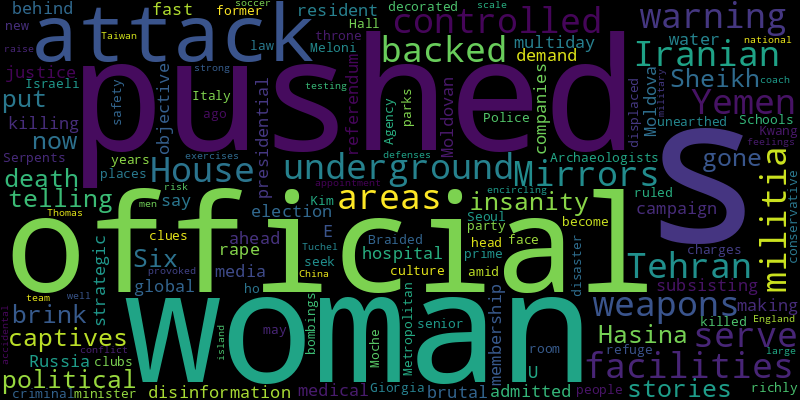
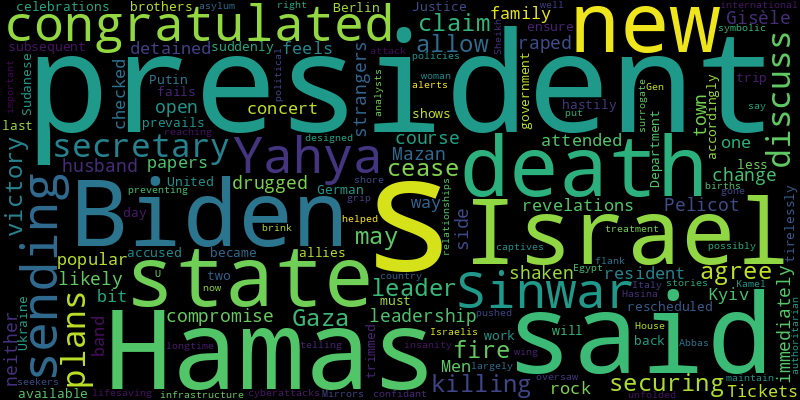
chore(bot): 🟩 auto commit

diff --git a/README.md b/README.md
@@ -2,41 +2,41 @@
 Auto RSS New York Times and Generate Word Cloud
 
 ## New York Times Global News
-* The attack on underground weapons facilities in areas of Yemen controlled by the Iranian-backed militia could also serve as a warning to Tehran.
+* President Biden congratulated Israel after the death of Yahya Sinwar and said he was sending the secretary of state to discuss plans for securing Gaza.
+* The killing of Hamas’s leader may allow Israel to claim victory and agree to a cease-fire, and new Hamas leadership could be more open to compromise. But neither side is likely to immediately change course.
+* The town of Mazan, where Gisèle Pelicot was drugged and raped by her husband and strangers, has been shaken by the revelations. “It feels a bit like it’s in our family,” one resident said.
+* Men who attended the Kyiv concert of a popular rock band had their papers checked on the way out. Some were detained. Tickets to subsequent shows suddenly became available.
+* The United States and its allies must work tirelessly, President Biden said, to “ensure that Ukraine prevails and Putin fails.”
+* The president’s hastily rescheduled trip to Berlin will last less than a day. The German government has trimmed back its celebrations accordingly.
+* The Justice Department has accused two Sudanese brothers of cyberattacks on U.S. infrastructure as well as preventing possibly lifesaving alerts from reaching Israelis as the Hamas attack unfolded.
+* New policies on surrogate births and the treatment of asylum seekers, while largely symbolic, are designed to shore up her right-wing flank in Italy, analysts say.
+* Gen. Abbas Kamel, a longtime confidant of Egypt’s president, oversaw the country’s most important international relationships and helped maintain the president’s authoritarian grip.
 * In the House of Mirrors, political captives were pushed to the brink of insanity and death. Some are telling their stories now that the woman who put them there, Sheikh Hasina, is gone.
-* Six were subsisting only on water and were admitted into the hospital after a multiday fast to demand justice for the brutal rape and killing of a medical resident.
-* Russia is behind a disinformation campaign in Moldova ahead of a presidential election and a referendum making E.U. membership a “strategic objective,” Moldovan officials and global media companies say.
-* Archaeologists have unearthed a richly decorated throne room and a “Hall of the Braided Serpents” from the Moche culture, with clues that a woman may have ruled there more than 1,300 years ago.
-* Kim Kwang-ho, the former head of the Seoul Metropolitan Police Agency, was the most senior official to face criminal charges over the 2022 disaster that killed 159 people.
-* The new law was pushed by the party of Giorgia Meloni, Italy’s conservative prime minister.
-* Schools, clubs and parks have become places of refuge as the displaced seek safety amid Israeli bombings.
-* The appointment of Thomas Tuchel to coach the England men’s national soccer team has provoked, well, some strong feelings.
-* China’s large-scale military exercises are encircling Taiwan and testing the island’s defenses. They also raise the risk of conflict, accidental or otherwise.
 
 ![Global](./global.png)
 ## New York Times United States News
-* The settlement is the highest single payout by an archdiocese, experts said, and brings Los Angeles’s cumulative payout in sex abuse lawsuits to more than $1.5 billion.
-* The storm made landfall Wednesday evening, devastating an area still recovering from Hurricane Helene, which tore through Florida’s western coast two weeks ago.
-* The appeal filed on Tuesday disputes a judge’s ruling that six of the charges brought against Donald J. Trump and his allies in Georgia were not specific enough.
-* Robert Telles was sentenced to life in prison with the possibility of parole after 20 years for the murder of Jeff German. On Wednesday, a judge added eight years to that minimum.
-* An effort to revive and maximize use of the Public Service Loan Forgiveness program has resulted in student loan forgiveness for over one million people.
-* The Treasury secretary plans to criticize former President Donald J. Trump’s economic proposals in a speech.
-* As technology like doorbell cameras makes it easier to avoid unsolicited visitors, the Harris campaign is leaning on data-capturing apps to supplement the traditional work of canvassing.
-* Can you trust the polls this year? Kaleigh Rogers, a polling reporter at The New York Times, describes how pollsters have tried to fix past mistakes.
-* Future Forward has ascended to the top of the Democratic political universe, but it has also drawn suspicion and second-guessing.
-* Air Force B-2 bombers struck five underground weapons facilities in what may be a signal from the Biden administration to Iran.
+* Robert Roberson had been set to be executed on Thursday night for the death of his 2-year-old child. But after a bipartisan intervention by Texas lawmakers, the Supreme Court issued a stay.
+* Ashwin Ramaswami, a Democrat, was still in law school when he decided to run against State Senator Shawn Still, who was indicted with Donald Trump in the Georgia election interference case.
+* Ken Paxton, the attorney general, said it was the first enforcement action under a state ban on treatment.
+* The city relies on an army of case managers to help homeless people stay in motels and on the path toward finding an apartment.
+* From the geographic boundaries to the values and friendliness, people have debated what defines the region essentially since it was labeled the Midwest. It has taken on a renewed urgency this election year.
+* Barack and Michelle Obama will make their first campaign appearances alongside Kamala Harris at rallies in Georgia and Michigan.
+* Donald J. Trump has been talking up his economic record for Black voters. The legacy of the last eight years is complicated.
+* Donald J. Trump and Kamala Harris both delivered remarks, Ms. Harris via taped video and Mr. Trump in person in a ballroom in Manhattan.
+* Senator Jacky Rosen and her Republican challenger, Sam Brown, met for their only debate, focusing on the cost of living, abortion and other issues.
+* The billionaire is spending a fortune to support former President Donald J. Trump. But at a town hall event in Pennsylvania, he looked an awful lot like a politician himself.
 
 ![US](./usnews.png)
 ## New York Times Asia News
+* New data shows the challenges facing Chinese policymakers trying to stimulate an economy marked by falling prices, weak consumer spending and a housing market crash.
+* The United States and Canada have worked together to investigate what they say is the Indian government’s campaign against Sikh separatists.
+* David Lammy is set to meet China’s foreign minister in Beijing on Friday, in a trip the British government said would acknowledge “areas of contention as well as areas for cooperation.”
+* Plus, an interview with Hugh Grant.
+* Pentagon officials discuss whether the flow of assistance could be hurting the military’s ability to respond to a new conflict.
+* Fan was a megastar until 2018, when she was fined tens of millions of dollars over unpaid taxes and her career tanked. “Green Night” is her first film since the scandal.
 * Six were subsisting only on water and were admitted into the hospital after a multiday fast to demand justice for the brutal rape and killing of a medical resident.
 * Here are some basics from the Times investigation into Bangladesh’s secret military prison, the “House of Mirrors.”
 * In the House of Mirrors, political captives were pushed to the brink of insanity and death. Some are telling their stories now that the woman who put them there, Sheikh Hasina, is gone.
 * Kim Kwang-ho, the former head of the Seoul Metropolitan Police Agency, was the most senior official to face criminal charges over the 2022 disaster that killed 159 people.
-* Plus, the women of the world’s gnarliest mountain-bike competition.
-* Helping Russia in the war is an opportunity for North Korea to test its new weapons, and Ukrainian officials say the North’s troops are also gaining direct battle experience.
-* While observational flights have improved forecasts for many storms in the Americas, such flights have been far fewer for storms that have hit Asia.
-* China’s large-scale military exercises are encircling Taiwan and testing the island’s defenses. They also raise the risk of conflict, accidental or otherwise.
-* Plus, an investigation into China’s panda breeding program.
-* A motorcade through the capital revived “panda diplomacy” between Washington and Beijing for the first time in nearly a year.
 
 ![Asian](./asian.png)

diff --git a/archive/2024-10-17.md b/archive/2024-10-17.md
@@ -1,0 +1,42 @@
+# NewsArchive
+Auto RSS New York Times and Generate Word Cloud
+
+## New York Times Global News
+* The attack on underground weapons facilities in areas of Yemen controlled by the Iranian-backed militia could also serve as a warning to Tehran.
+* In the House of Mirrors, political captives were pushed to the brink of insanity and death. Some are telling their stories now that the woman who put them there, Sheikh Hasina, is gone.
+* Six were subsisting only on water and were admitted into the hospital after a multiday fast to demand justice for the brutal rape and killing of a medical resident.
+* Russia is behind a disinformation campaign in Moldova ahead of a presidential election and a referendum making E.U. membership a “strategic objective,” Moldovan officials and global media companies say.
+* Archaeologists have unearthed a richly decorated throne room and a “Hall of the Braided Serpents” from the Moche culture, with clues that a woman may have ruled there more than 1,300 years ago.
+* Kim Kwang-ho, the former head of the Seoul Metropolitan Police Agency, was the most senior official to face criminal charges over the 2022 disaster that killed 159 people.
+* The new law was pushed by the party of Giorgia Meloni, Italy’s conservative prime minister.
+* Schools, clubs and parks have become places of refuge as the displaced seek safety amid Israeli bombings.
+* The appointment of Thomas Tuchel to coach the England men’s national soccer team has provoked, well, some strong feelings.
+* China’s large-scale military exercises are encircling Taiwan and testing the island’s defenses. They also raise the risk of conflict, accidental or otherwise.
+
+![Global](./global.png)
+## New York Times United States News
+* The settlement is the highest single payout by an archdiocese, experts said, and brings Los Angeles’s cumulative payout in sex abuse lawsuits to more than $1.5 billion.
+* The storm made landfall Wednesday evening, devastating an area still recovering from Hurricane Helene, which tore through Florida’s western coast two weeks ago.
+* The appeal filed on Tuesday disputes a judge’s ruling that six of the charges brought against Donald J. Trump and his allies in Georgia were not specific enough.
+* Robert Telles was sentenced to life in prison with the possibility of parole after 20 years for the murder of Jeff German. On Wednesday, a judge added eight years to that minimum.
+* An effort to revive and maximize use of the Public Service Loan Forgiveness program has resulted in student loan forgiveness for over one million people.
+* The Treasury secretary plans to criticize former President Donald J. Trump’s economic proposals in a speech.
+* As technology like doorbell cameras makes it easier to avoid unsolicited visitors, the Harris campaign is leaning on data-capturing apps to supplement the traditional work of canvassing.
+* Can you trust the polls this year? Kaleigh Rogers, a polling reporter at The New York Times, describes how pollsters have tried to fix past mistakes.
+* Future Forward has ascended to the top of the Democratic political universe, but it has also drawn suspicion and second-guessing.
+* Air Force B-2 bombers struck five underground weapons facilities in what may be a signal from the Biden administration to Iran.
+
+![US](./usnews.png)
+## New York Times Asia News
+* Six were subsisting only on water and were admitted into the hospital after a multiday fast to demand justice for the brutal rape and killing of a medical resident.
+* Here are some basics from the Times investigation into Bangladesh’s secret military prison, the “House of Mirrors.”
+* In the House of Mirrors, political captives were pushed to the brink of insanity and death. Some are telling their stories now that the woman who put them there, Sheikh Hasina, is gone.
+* Kim Kwang-ho, the former head of the Seoul Metropolitan Police Agency, was the most senior official to face criminal charges over the 2022 disaster that killed 159 people.
+* Plus, the women of the world’s gnarliest mountain-bike competition.
+* Helping Russia in the war is an opportunity for North Korea to test its new weapons, and Ukrainian officials say the North’s troops are also gaining direct battle experience.
+* While observational flights have improved forecasts for many storms in the Americas, such flights have been far fewer for storms that have hit Asia.
+* China’s large-scale military exercises are encircling Taiwan and testing the island’s defenses. They also raise the risk of conflict, accidental or otherwise.
+* Plus, an investigation into China’s panda breeding program.
+* A motorcade through the capital revived “panda diplomacy” between Washington and Beijing for the first time in nearly a year.
+
+![Asian](./asian.png)
